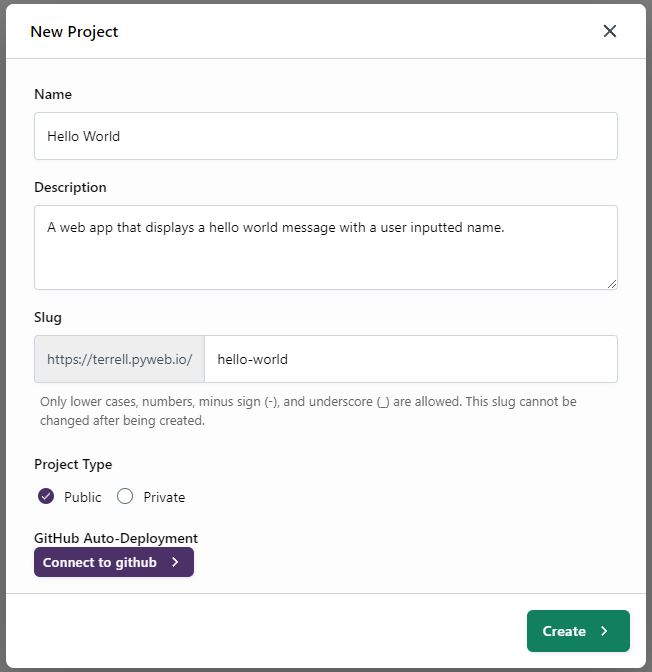
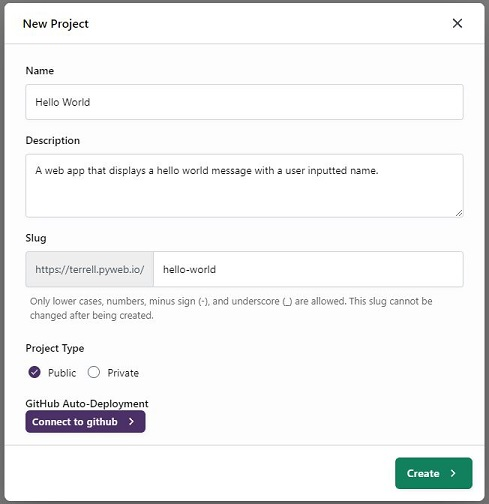
delete or rename images

diff --git a/src/css/custom.css b/src/css/custom.css
@@ -198,9 +198,9 @@ header.hero.hero--primary.heroBanner_src-pages-index-module {
 }
 
 /* images (global) */
-img {
+/* img {
   border-radius: 15px;
-}
+} */
 
 /* font size (global) */
 p, li {
